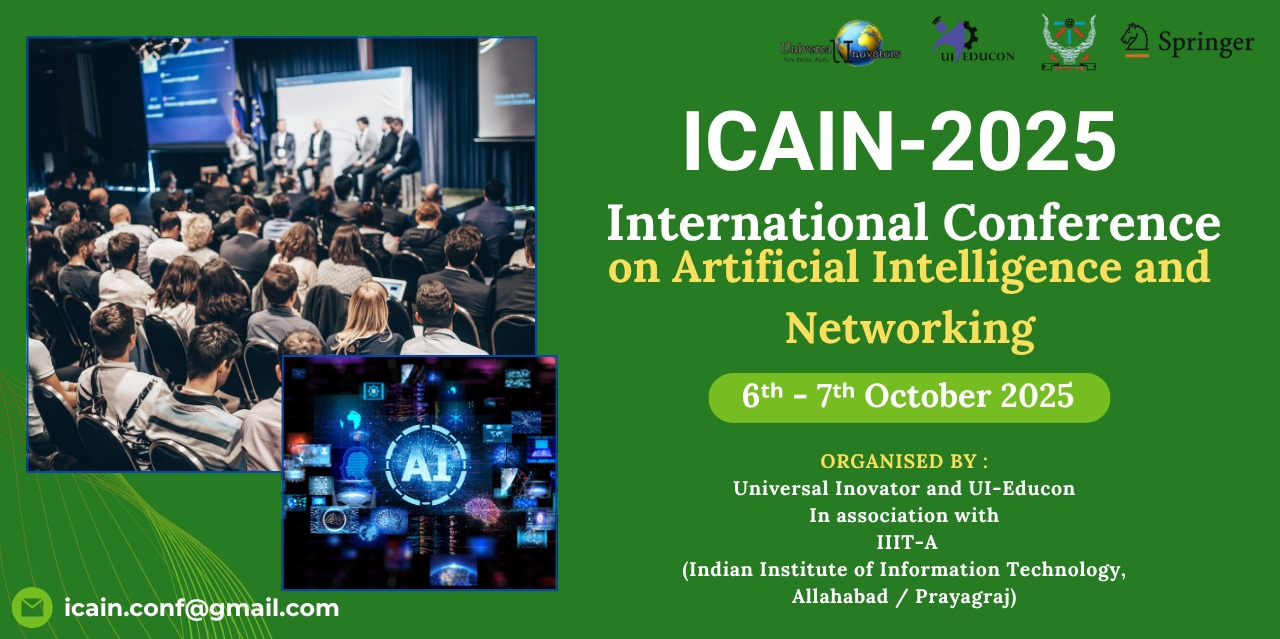
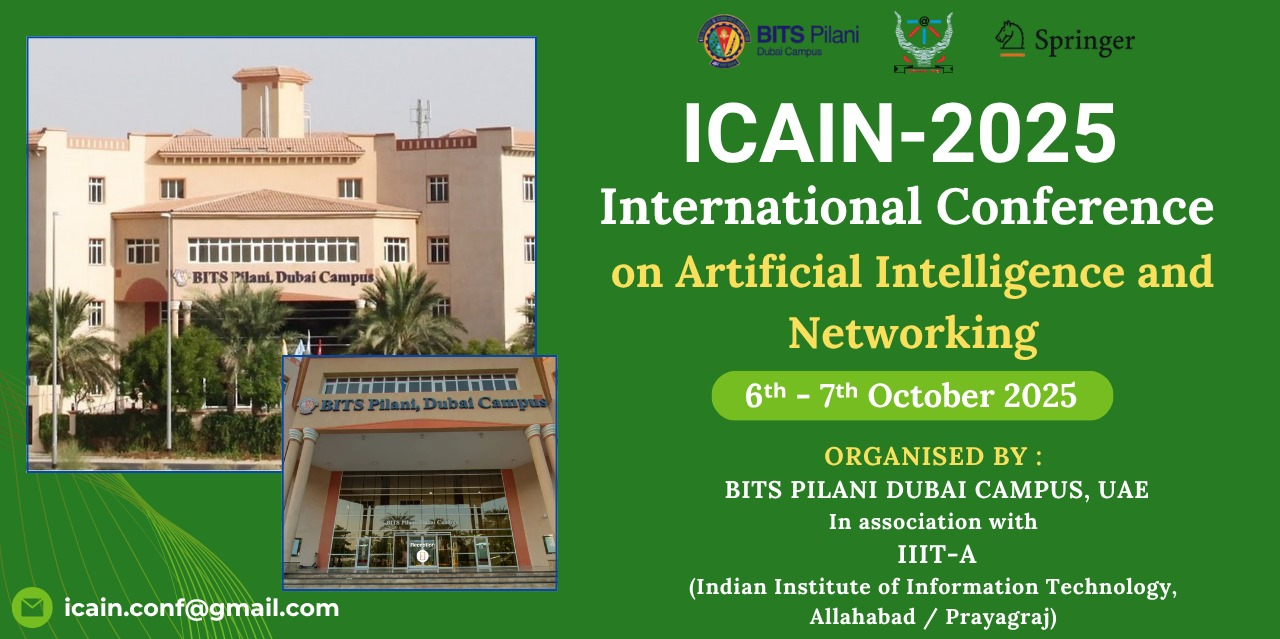
bits

diff --git a/src/Components/Guide/TravelSupport.js b/src/Components/Guide/TravelSupport.js
@@ -1,0 +1,41 @@
+import React from 'react';
+import './TravelSupport.css';
+
+const TravelSupport = () => {
+  return (
+    <div className="travel-support-container">
+      <h2 className="travel-support-title">
+        Travel & Participation Support – ICAIN 2025, Dubai
+      </h2>
+      <p>
+        We are pleased to inform you that we are offering <strong>comprehensive support</strong> for your travel and participation in the conference, scheduled to be held in <strong>Dubai on 6th–7th October 2025</strong>.
+      </p>
+      <p>
+        As part of our commitment to a seamless experience for our delegates, we are providing a complete travel package that includes:
+      </p>
+      <ul>
+        <li>Visa assistance</li>
+        <li>Flight arrangements</li>
+        <li>Comfortable accommodation</li>
+        <li>Local tourism opportunities</li>
+      </ul>
+      <p>
+        This all-in-one package is designed to ensure both your <strong>professional engagement</strong> and <strong>personal exploration</strong> of Dubai—all under one roof.
+      </p>
+      <p>
+        If you're interested, we’ll be happy to share the details and help you further with documentation and travel planning.
+      </p>
+      <p>
+        Kindly fill out the Google form for further information: <br />
+        <a href="https://forms.gle/6quMbBRWc6DsGu2d7" target="_blank" rel="noopener noreferrer">
+          https://forms.gle/6quMbBRWc6DsGu2d7
+        </a>
+      </p>
+      <p className="travel-support-footer">
+        Looking forward to welcoming you to Dubai for ICAIN 2025!
+      </p>
+    </div>
+  );
+};
+
+export default TravelSupport;

diff --git a/src/Components/CommitteeSection/SteeringCmte/SCcards/SCcards.jsx b/src/Components/CommitteeSection/SteeringCmte/SCcards/SCcards.jsx
@@ -67,9 +67,10 @@ function SCcards() {
 
   let confChair = [
     {
-      h1: "Dr. Ahmed J. Obaid",
-      p: "Associate Professor of Computer Science at the University of Kufa, Iraq"
+      h1: " Prof. Sujala D. Shetty",
+      p: "Associate Professor and Head (CS), BITS PILANI DUBAI CAMPUS"
     },
+    
     {
       h1: "Prof. Dr. Jan Valicek",
       p: "Institute of Technology and Business in České Budějovice"
@@ -86,6 +87,10 @@ function SCcards() {
 
 
 let techChair = [
+   {
+      h1: "Prof. Hussain Chowdhury",
+      p: "Assistant Professor (CS), BITS PILANI DUBAI CAMPUS"
+    },   
   {
     h1: "Prof. Dr. Isabel DE LA TORRE DÍEZ",
     p: "University of Valladolid, Spain"
@@ -146,6 +151,10 @@ let techChair = [
 
   let publicChair = [
     {
+      h1: "Prof. Suyash Shukl",
+      p: "Assistant Professor (CS), BITS PILANI DUBAI CAMPUS"
+    }, 
+    {
       h1: "Dr. Sandra Fernando",
       p: "London Metropolitan University"
     },
@@ -168,7 +177,11 @@ let techChair = [
     {
       h1: "Prof. Dr. Zdzislaw Polkowski",
       p: "The Karkonosze University of Applied Sciences in Jelenia Góra, Poland"
-    }
+    },
+    {
+      h1: "Dr. Ahmed J. Obaid",
+      p: "Associate Professor of Computer Science at the University of Kufa, Iraq"
+    },
 ];
 
 
@@ -192,7 +205,10 @@ let techChair = [
 
 
   let convener = [
-    
+    {
+      h1: "Prof. Kajal Kansa",
+      p: "Assistant Professor (CS), BITS PILANI DUBAI CAMPUS"
+    },    
     {
       h1: "Dr. Roman Danel",
       p: "Institute of Technology and Business in České Budějovice"

diff --git a/src/Components/Guide/TravelSupport.css b/src/Components/Guide/TravelSupport.css
@@ -1,0 +1,78 @@
+.travel-support-container {
+  max-width: 80vw;
+  margin: 40px auto;
+  padding: 30px;
+  background-color: var(--color-green);
+  border: 1px solid rgba(255, 255, 255, 0.2);
+  border-radius: 12px;
+  font-family: Arial, sans-serif;
+  color: white;
+  box-shadow: 0 6px 12px rgba(0, 0, 0, 0.15);
+}
+
+.travel-support-title {
+  text-align: center;
+  font-size: 28px;
+  font-weight: bold;
+  color: white;
+  margin-bottom: 25px;
+}
+
+.travel-support-container p {
+  margin-bottom: 18px;
+  line-height: 1.8;
+  text-align: justify;
+  font-size: 16px;
+}
+
+.travel-support-container ul {
+  margin-left: 20px;
+  margin-bottom: 18px;
+}
+
+.travel-support-container ul li {
+  margin-bottom: 8px;
+  font-size: 16px;
+  position: relative;
+  padding-left: 18px;
+}
+
+.travel-support-container ul li::before {
+  content: "•";
+  position: absolute;
+  left: 0;
+  color: white;
+}
+
+.travel-support-container a {
+  color: #fff;
+  text-decoration: underline;
+  word-break: break-word;
+  font-weight: 500;
+}
+
+.travel-support-footer {
+  margin-top: 35px;
+  text-align: center;
+  font-weight: 600;
+  font-size: 17px;
+  color: white;
+}
+
+/* Responsive */
+@media (max-width: 768px) {
+  .travel-support-container {
+    padding: 20px;
+    margin: 20px 10px;
+  }
+
+  .travel-support-title {
+    font-size: 22px;
+  }
+
+  .travel-support-container p,
+  .travel-support-container ul li,
+  .travel-support-footer {
+    font-size: 15px;
+  }
+}

diff --git a/src/Components/Header/header.jsx b/src/Components/Header/header.jsx
@@ -11,6 +11,7 @@ import vste from "./Himages/vste.jpg"
 import uos from "./Himages/logo-2.svg"
 import uiedu from "./Himages/ui-edu.webp"
 import uiinov from "./Himages/ui-inov.jpeg"
+import bits from "./Himages/bits.jpg"
 
 import "./header.css";
 
@@ -21,8 +22,8 @@ function HeaderMain() {
         {/* images  */}
 
         <div className="headerLogo">
-          <img src={uiinov} className="logoImg"/> 
-          <img src={uiedu} className="logoImg1"/>  
+          <img src={bits} style={{"width":"200px"}}/> 
+          {/* <img src={uiedu} className="logoImg1"/>   */}
           
 
           
@@ -50,13 +51,13 @@ function HeaderMain() {
              
               </span> */}
             <br />
-            Universal Inovators and UI Educon
+            <span style={{'color':'#006938',fontSize:'1.25rem'}}>BITS Pilani Dubai Campus, UAE</span>
             <br/><span > in association with</span>{" "}
             <div className="headerLogo">
               {/* <img src={gtbit} className="logoImg"/>    */}
               {/* <img src={uos} className="logoImg1" /> */}
             </div>
-            <span style={{'color':'#006938',fontSize:'1rem'}}>
+            <span style={{'color':'#006938',fontSize:'1.25rem'}}>
               Indian Institute of Information Technology, Allahabad
 
             </span>

diff --git a/src/Components/AwardsSection/Selection.jsx b/src/Components/AwardsSection/Selection.jsx
@@ -55,8 +55,8 @@ const Selection = () => {
           <a href="high_edu_awards.docx" className="btn">🏫 Higher Education Award Form</a>
         </div>
         <br/>
-        <h4>Fill the google form form for the nomination :<a href="https://forms.gle/UbdKjMaYQPdiDXFE8" style={{color:"#e6c200"}}> Form Link</a></h4>
-        <h4>For contact us :<a href="mailto:elevatexawards@gmail.com" style={{color:"#e6c200"}}> elevatexawards@gmail.com</a></h4>
+        <h4>Fill the google form for the nomination :<a href="https://forms.gle/UbdKjMaYQPdiDXFE8" style={{color:"#e6c200"}}> Form Link</a></h4>
+        <h4>Contact us :<a href="mailto:chair@universal-inovators.com" style={{color:"#e6c200"}}> chair@universal-inovators.com</a></h4>
 
       </div>
     </section>

diff --git a/src/Components/Guide/CardsContainer.jsx b/src/Components/Guide/CardsContainer.jsx
@@ -4,6 +4,7 @@ import './card.css'
 import { delhiPlaces, delhiHotels, rakHotels, uaePlaces } from './places';
 import Footer from '../Footer/footer';
 import 'animate.css';
+import TravelSupport from './TravelSupport';
 export default function CardsContainer() {
   return (
 
@@ -14,6 +15,8 @@ export default function CardsContainer() {
         <hr />
       </div>
       <div className="spSessionCont">
+            <TravelSupport/>
+      
         {/* <h3>Places to visit in Prague</h3> */}
         {/* <hr /> */}
         {/*      

diff --git a/src/Components/AwardsSection/Award.jsx b/src/Components/AwardsSection/Award.jsx
@@ -34,7 +34,7 @@ function Awards() {
           </div>
           <div className="detail-box full-width">
             <span className="label">Organized by:</span>
-            <span className="value">Universal Inovator & UI-Educon</span>
+            <span className="value">BITS Pilani Dubai Campus, UAE</span>
           </div>
           <div className="detail-box full-width">
             <span className="label">In association with:</span>

diff --git a/src/Components/Header/header.css b/src/Components/Header/header.css
@@ -70,6 +70,8 @@ img{
 
 .hhead{
     text-align: center;
+    /* color: var(--color-green); */
+
 }
 .header{
     display: flex;
@@ -109,7 +111,7 @@ img{
         margin: 1rem 0;
     }
     .logoImg{
-        width: 10rem!important;
+        width: 20rem;
         height: auto;
         margin: 5px;
     }

diff --git a/src/Components/Guide/Guide.jsx b/src/Components/Guide/Guide.jsx
@@ -6,6 +6,7 @@ import img1 from './images/1.jpeg';
 import img2 from './images/2.jpeg';
 import img3 from './images/burj.jpg';
 import img4 from './images/mosque.jpg';
+import TravelSupport from './TravelSupport';
 
 
 
